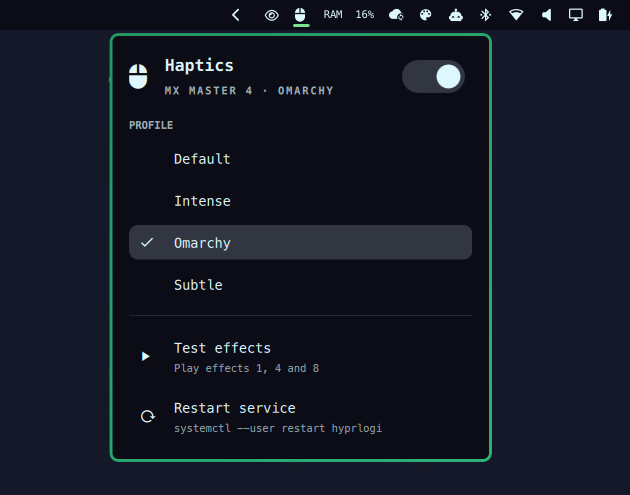
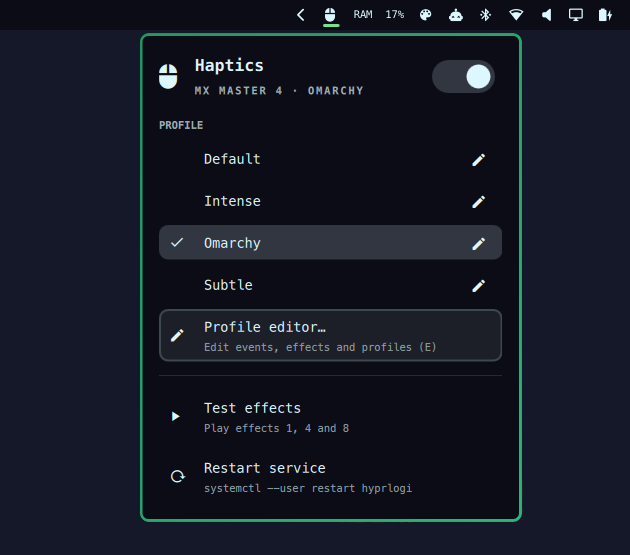
Open the HyprLogi profile editor from the panel
- "Profile editor…" under the profile list (key E) opens the editor on
  the active profile; a pencil next to each profile opens that profile
- Shown only when HyprLogi 0.4.1+ reports that its editor can start
- New preview showing the editor button, version 0.2.0

diff --git a/Panel.qml b/Panel.qml
@@ -14,12 +14,15 @@ Panel {
   moduleName: "mfabijanic.hyprlogi"
   ipcTarget: "mfabijanic.hyprlogi"
 
-  // Keyboard cursor over one flat list: the switch, each profile, then the actions.
+  // Keyboard cursor over one flat list: the switch, each profile, the profile editor (when
+  // HyprLogi can start it), then the actions.
   property int cursorIndex: 0
   property bool cursorActive: false
   readonly property var profiles: haptics.status.profiles
   readonly property int profileBase: 1
-  readonly property int actionBase: profileBase + profiles.length
+  readonly property bool editorShown: haptics.status.installed && haptics.status.gui
+  readonly property int editorIndex: profileBase + profiles.length
+  readonly property int actionBase: editorIndex + (editorShown ? 1 : 0)
   readonly property var actions: [
     { glyph: Model.GLYPH_PLAY, label: "Test effects", detail: "Play effects 1, 4 and 8" },
     { glyph: Model.GLYPH_RESTART, label: "Restart service", detail: "systemctl --user restart hyprlogi" }
@@ -47,8 +50,14 @@ Panel {
 
   function activateCursor() {
     if (cursorIndex === 0) haptics.togglePaused()
-    else if (cursorIndex < actionBase) haptics.setProfile(profiles[cursorIndex - profileBase])
+    else if (cursorIndex < editorIndex) haptics.setProfile(profiles[cursorIndex - profileBase])
+    else if (editorShown && cursorIndex === editorIndex) openEditor("")
     else activateAction(cursorIndex - actionBase)
+  }
+
+  function openEditor(profile) {
+    haptics.openEditor(profile)
+    root.close()
   }
 
   function activateAction(index) {
@@ -104,6 +113,7 @@ Panel {
       onTextKey: function(t) {
         if (t === "p" || t === "P") haptics.togglePaused()
         else if (t === "t" || t === "T") haptics.testEffects()
+        else if ((t === "e" || t === "E") && root.editorShown) root.openEditor("")
         else if (t === "r" || t === "R") haptics.refresh()
       }
 
@@ -208,8 +218,21 @@ Panel {
                 glyph: modelData === haptics.status.profile ? Model.GLYPH_CHECK : ""
                 label: Model.profileLabel(modelData)
                 current: modelData === haptics.status.profile
+                trailingGlyph: root.editorShown ? Model.GLYPH_EDIT : ""
+                trailingTooltip: "Edit " + Model.profileLabel(modelData)
                 onActivated: haptics.setProfile(modelData)
+                onTrailingActivated: root.openEditor(modelData)
               }
+            }
+
+            ActionRow {
+              visible: root.editorShown
+              width: parent.width
+              cursorIndex: root.editorIndex
+              glyph: Model.GLYPH_EDIT
+              label: "Profile editor…"
+              detail: "Edit events, effects and profiles (E)"
+              onActivated: root.openEditor("")
             }
           }
 
@@ -249,7 +272,11 @@ Panel {
     property string glyph: ""
     property string label: ""
     property string detail: ""
+    // Optional small button at the end of the row, e.g. "edit this profile"
+    property string trailingGlyph: ""
+    property string trailingTooltip: ""
     signal activated()
+    signal trailingActivated()
 
     hasCursor: root.cursorActive && root.cursorIndex === cursorIndex
     foreground: root.foreground
@@ -308,6 +335,17 @@ Panel {
           font.pixelSize: Style.font.caption
           elide: Text.ElideRight
         }
+      }
+
+      PanelActionButton {
+        visible: row.trailingGlyph !== ""
+        iconText: row.trailingGlyph
+        tooltipText: row.trailingTooltip
+        foreground: root.foreground
+        fontFamily: root.fontFamily
+        enabled: !haptics.busy
+        Layout.alignment: Qt.AlignVCenter
+        onClicked: row.trailingActivated()
       }
     }
   }

diff --git a/Model.js b/Model.js
@@ -7,6 +7,7 @@ var GLYPH_ALERT = ""
 var GLYPH_CHECK = ""
 var GLYPH_PLAY = ""
 var GLYPH_RESTART = ""
+var GLYPH_EDIT = ""
 
 // Exit code of `sh -c 'command -v hyprlogi || exit 127; …'` when hyprlogi is missing
 var EXIT_NOT_INSTALLED = 127
@@ -21,7 +22,8 @@ function defaultStatus() {
     profiles: [],
     backend: "",
     device: "",
-    version: ""
+    version: "",
+    gui: false
   }
 }
 
@@ -43,6 +45,8 @@ function parseStatus(raw, exitCode) {
     status.backend = String(parsed.backend || "")
     status.device = String(parsed.device || "")
     status.version = String(parsed.version || "")
+    // HyprLogi 0.4.1+ reports whether its profile editor can start
+    status.gui = parsed.gui === true
   } catch (e) {
     status.ok = false
     status.error = "Could not read HyprLogi status"
@@ -93,6 +97,7 @@ if (typeof module !== "undefined") {
     GLYPH_MOUSE: GLYPH_MOUSE,
     GLYPH_MOUSE_OFF: GLYPH_MOUSE_OFF,
     GLYPH_ALERT: GLYPH_ALERT,
+    GLYPH_EDIT: GLYPH_EDIT,
     EXIT_NOT_INSTALLED: EXIT_NOT_INSTALLED,
     defaultStatus: defaultStatus,
     parseStatus: parseStatus,

diff --git a/Service.qml b/Service.qml
@@ -81,6 +81,14 @@ Item {
     run(["hyprlogi", "play", "1", "4", "8"], "Playing test effects…")
   }
 
+  // The profile editor is a separate app (HyprLogi 0.4.1+); started like Omarchy's own launchers.
+  function openEditor(profile) {
+    if (!status.gui) return
+    var command = ["uwsm-app", "--", "hyprlogi-gui"]
+    if (profile) command = command.concat(["--profile", profile])
+    Quickshell.execDetached(command)
+  }
+
   function restartService() {
     run(["systemctl", "--user", "restart", "hyprlogi.service"], "Restarting HyprLogi…")
   }

diff --git a/tests/model.test.js b/tests/model.test.js
@@ -14,6 +14,8 @@ test("parses a running daemon", () => {
   assert.equal(s.ok, true)
   assert.equal(s.running, true)
   assert.deepEqual(s.profiles, ["default", "omarchy", "my_profile"])
+  assert.equal(s.gui, false)
+  assert.equal(Model.parseStatus(RUNNING.replace('"version"', '"gui":true,"version"'), 0).gui, true)
   assert.equal(Model.barState(s), "ok")
   assert.equal(Model.barGlyph(s), Model.GLYPH_MOUSE)
   assert.equal(Model.heroMeta(s), "MX Master 4 · Omarchy")

diff --git a/README.md b/README.md
@@ -1,6 +1,6 @@
 # HyprLogi for Omarchy
 
-![HyprLogi bar widget: the Haptics panel with the pause switch, profiles and actions](preview.png)
+![HyprLogi bar widget: the Haptics panel with the pause switch, profiles, the profile editor button and actions](preview.png)
 
 An [Omarchy](https://omarchy.org/) bar widget for [HyprLogi](https://github.com/mfabijanic/hyprlogi), the daemon
 that plays haptic feedback on Logitech mice (MX Master 4) for Hyprland events.
@@ -9,11 +9,14 @@ that plays haptic feedback on Logitech mice (MX Master 4) for Hyprland events.
   the daemon is not running or HyprLogi is not installed. The tooltip names the active profile.
 - **Panel**: a switch to pause and resume haptics, the profile list (click to switch, the daemon picks it up at
   once), *Test effects* and *Restart service*.
+- **Profile editor**: *Profile editor…* under the profile list opens HyprLogi's editor on the active profile, and
+  the pencil next to a profile opens it on that profile. Both show only when HyprLogi 0.4.1+ reports that its
+  editor can start (GTK 4 and libadwaita installed); if the editor is already open, it is brought to the front.
 - **Mouse**: left click opens the panel, middle click pauses or resumes, right click refreshes.
-- **Keyboard** (panel open): arrows and Enter, `P` pause/resume, `T` test, `R` refresh.
+- **Keyboard** (panel open): arrows and Enter, `P` pause/resume, `E` profile editor, `T` test, `R` refresh.
 
-The widget only runs the `hyprlogi` command (`status --json`, `toggle`, `profile set`, `play`); it needs
-HyprLogi 0.3.0 or newer.
+The widget only runs the `hyprlogi` command (`status --json`, `toggle`, `profile set`, `play`) and starts
+`hyprlogi-gui`; it needs HyprLogi 0.3.0 or newer (0.4.1 or newer for the profile editor).
 
 ## Install
 
@@ -57,7 +60,7 @@ covers removing HyprLogi.
 
 ## Requirements
 
-- [HyprLogi](https://github.com/mfabijanic/hyprlogi) 0.3.0 or newer, with its service running
+- [HyprLogi](https://github.com/mfabijanic/hyprlogi) 0.3.0 or newer (0.4.1+ for the profile editor), with its service running
   (`systemctl --user enable --now hyprlogi.service`). Without it the icon shows a warning and the panel explains
   how to install it.
 - A Logitech mouse with haptic feedback (tested with the MX Master 4), through OpenLogi's or HyprLogi's udev rule.
